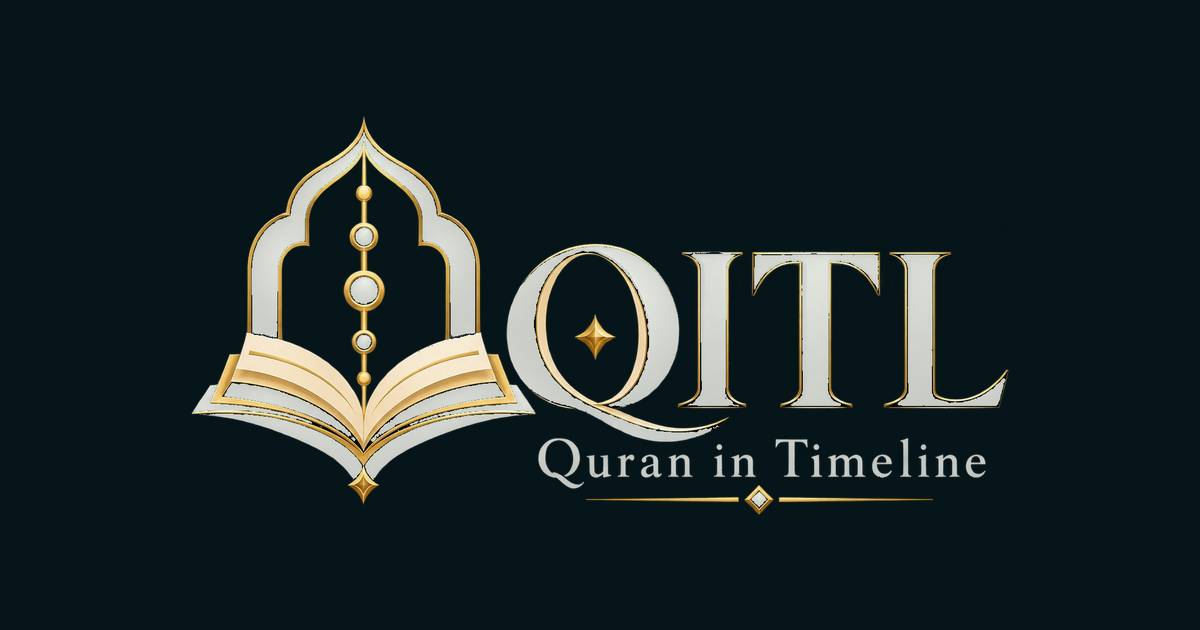
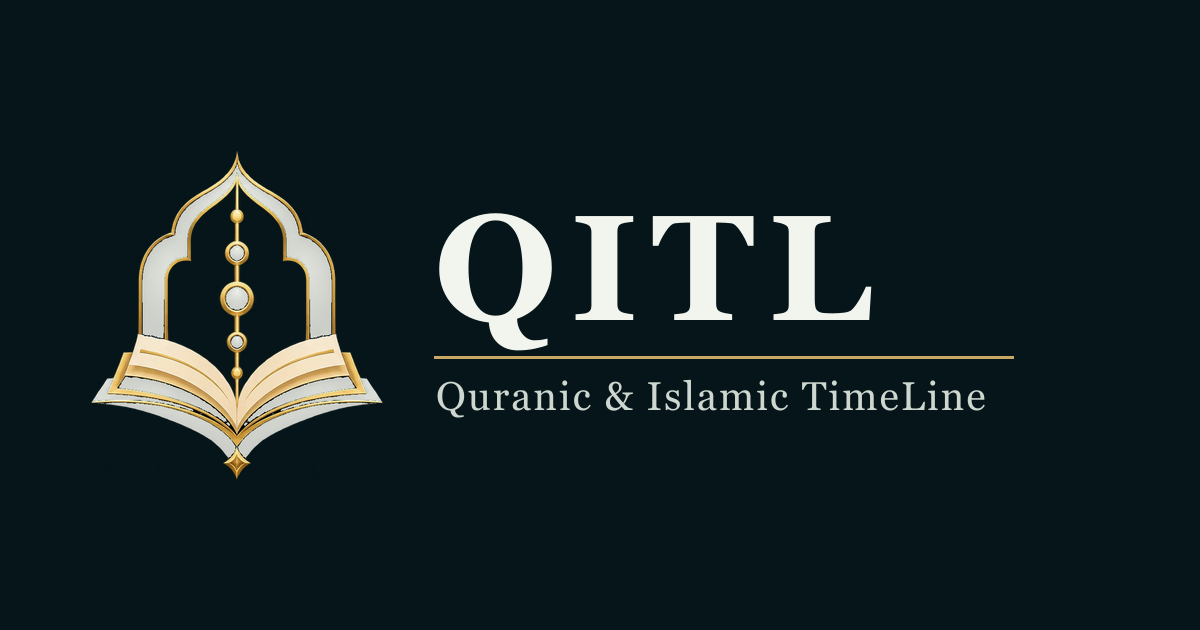
Rename the tagline to 'Quranic & Islamic TimeLine' (single source in src/lib/brand.ts); regenerate the social card from the emblem and live text

Changed region(s): [[0.0617, 0.181, 0.8633, 0.8143]]

diff --git a/src/app/[locale]/page.tsx b/src/app/[locale]/page.tsx
@@ -10,6 +10,7 @@ import { Rosette } from "@/components/ui/icons";
 import { Mark } from "@/components/shell/Logo";
 import { publicEnv } from "@/lib/env";
 import { jsonForScript } from "@/lib/security/html";
+import { BRAND_FULL } from "@/lib/brand";
 
 export default async function HomePage({ params }: { params: Promise<{ locale: string }> }) {
   const { locale } = await params;
@@ -23,7 +24,7 @@ export default async function HomePage({ params }: { params: Promise<{ locale: s
   const jsonLd = {
     "@context": "https://schema.org",
     "@type": "WebSite",
-    name: "QITL — Quran in Timeline",
+    name: BRAND_FULL,
     url: publicEnv.siteUrl,
     inLanguage: ["en", "ar", "ur"],
     potentialAction: { "@type": "SearchAction", target: `${publicEnv.siteUrl}/search?q={query}`, "query-input": "required name=query" },
@@ -125,7 +126,7 @@ export default async function HomePage({ params }: { params: Promise<{ locale: s
       <footer className="zq-foot" id="method">
         <span className="zq-foot-mark">
           <Mark size={36} tone="dark" />
-          <span>QITL — Quran in Timeline</span>
+          <span>{BRAND_FULL}</span>
         </span>
         <span>Respecting evidence · Preserving uncertainty · Learning together</span>
         <nav className="zq-foot-links" aria-label="About">

diff --git a/src/components/shell/SiteHeader.tsx b/src/components/shell/SiteHeader.tsx
@@ -8,6 +8,7 @@ import { LangToggle, ThemeToggle } from "./toggles";
 import { MobileMenu } from "./MobileMenu";
 import { Logo, Mark } from "./Logo";
 import { exploreLinks } from "@/lib/nav";
+import { BRAND_FULL } from "@/lib/brand";
 
 export interface NavLink {
   href: string;
@@ -40,7 +41,7 @@ export function JourneyHeader({ locale }: { locale: string }) {
   const { locale: l, t } = getDict(locale);
   return (
     <header className="zq-nav">
-      <Link className="zq-brand" href="/" aria-label="QITL — Quran in Timeline, home">
+      <Link className="zq-brand" href="/" aria-label={`${BRAND_FULL}, home`}>
         <Logo height={52} tone="dark" priority tagline={t.brandTagline} />
       </Link>
       <nav className="zq-links" aria-label="Main">
@@ -65,7 +66,7 @@ export function ReadingHeader({ locale, query }: { locale: string; query?: strin
   const st = searchStrings(l);
   return (
     <header className="pp-nav">
-      <Link className="pp-brand" href="/" aria-label="QITL — Quran in Timeline, home">
+      <Link className="pp-brand" href="/" aria-label={`${BRAND_FULL}, home`}>
         <Logo height={44} priority tagline={t.brandTagline} />
       </Link>
       <SearchField maxWidth={420} defaultValue={query} id="hdr-q" label={st.fieldLabel} placeholder={st.placeholder} />

diff --git a/tests/e2e/pages.spec.ts b/tests/e2e/pages.spec.ts
@@ -114,9 +114,9 @@ test.describe("narrow screens", () => {
 
 test("branding: the QITL logo with a text alternative, favicon, apple icon and social card", async ({ page, request }) => {
   await page.goto("/");
-  await expect(page.getByRole("link", { name: /QITL — Quran in Timeline, home/ })).toBeVisible();
-  await expect(page.locator('img[alt="QITL — Quran in Timeline"]').first()).toBeVisible();
-  await expect(page).toHaveTitle(/QITL — Quran in Timeline/);
+  await expect(page.getByRole("link", { name: /QITL — Quranic & Islamic TimeLine, home/ })).toBeVisible();
+  await expect(page.locator('img[alt="QITL — Quranic & Islamic TimeLine"]').first()).toBeVisible();
+  await expect(page).toHaveTitle(/QITL — Quranic & Islamic TimeLine/);
   for (const sel of ['link[rel="icon"]', 'link[rel="apple-touch-icon"]', 'meta[property="og:image"]']) expect(await page.locator(sel).count(), sel).toBeGreaterThan(0);
   const og = await page.locator('meta[property="og:image"]').first().getAttribute("content");
   expect((await request.get(new URL(og!).pathname)).status()).toBe(200);

diff --git a/src/lib/i18n/dict.ts b/src/lib/i18n/dict.ts
@@ -8,7 +8,7 @@ export type Locale = "en" | "ar" | "ur";
 
 const en = {
   skip: "Skip to content",
-  brandTagline: "Quran in Timeline",
+  brandTagline: "Quranic & Islamic TimeLine",
   nav: {
     journey: "The Journey",
     explore: "Explore",
@@ -75,7 +75,7 @@ const en = {
 
 const ar: typeof en = {
   skip: "تخطَّ إلى المحتوى",
-  brandTagline: "القرآن عبر الزمن",
+  brandTagline: "القرآن والتاريخ الإسلامي",
   nav: {
     journey: "الرحلة",
     explore: "استكشف",
@@ -143,7 +143,7 @@ const ar: typeof en = {
 /** Draft Urdu (first pass with Lara, corrected by hand): needs review by a qualified translator, like the Arabic. */
 const ur: typeof en = {
   skip: "مواد پر جائیں",
-  brandTagline: "قرآن، زمانی ترتیب میں",
+  brandTagline: "قرآنی و اسلامی تاریخ",
   nav: {
     journey: "سفر",
     explore: "دریافت کریں",

diff --git a/src/app/[locale]/layout.tsx b/src/app/[locale]/layout.tsx
@@ -9,14 +9,15 @@ import { BottomNav } from "@/components/shell/BottomNav";
 import { exploreLinks } from "@/lib/nav";
 import { Analytics } from "@/components/shell/Analytics";
 import "../globals.css";
+import { BRAND_FULL } from "@/lib/brand";
 
 export const metadata: Metadata = {
   metadataBase: new URL(publicEnv.siteUrl),
-  title: { default: "QITL — Quran in Timeline", template: "%s · QITL" },
+  title: { default: BRAND_FULL, template: "%s · QITL" },
   applicationName: "QITL",
   description:
     "Explore the story. Follow the evidence. The Quran, authenticated Hadith, the prophets, chronology and geography — every claim labelled by how certain it is.",
-  openGraph: { type: "website", siteName: "QITL — Quran in Timeline" },
+  openGraph: { type: "website", siteName: BRAND_FULL },
   twitter: { card: "summary_large_image" },
   alternates: { languages: { en: "/", ar: "/ar", ur: "/ur" } },
 };

diff --git a/src/components/shell/Logo.tsx b/src/components/shell/Logo.tsx
@@ -1,4 +1,5 @@
 import Image from "next/image";
+import { BRAND_FULL, BRAND_TAGLINE } from "@/lib/brand";
 
 /**
  * The QITL lockup: the approved emblem (raster, from brand/source) beside a live-text wordmark. Text stays sharp at
@@ -9,7 +10,7 @@ export function Logo({
   height = 44,
   tone = "auto",
   priority = false,
-  tagline = "Quran in Timeline",
+  tagline = BRAND_TAGLINE,
 }: {
   height?: number;
   tone?: "auto" | "dark" | "light";
@@ -17,7 +18,7 @@ export function Logo({
   tagline?: string;
 }) {
   const w = Math.round(height * 0.89);
-  const common = { width: w, height, priority, sizes: `${w}px`, alt: "QITL — Quran in Timeline" } as const;
+  const common = { width: w, height, priority, sizes: `${w}px`, alt: BRAND_FULL } as const;
   return (
     <span className={`qitl-logo qitl-logo-${tone}`} style={{ ["--logo-h" as string]: `${height}px` }}>
       <span className="qitl-logo-mark">

diff --git a/src/lib/brand.ts b/src/lib/brand.ts
@@ -1,0 +1,8 @@
+/**
+ * The product name, in one place. Renaming the product is an edit here, in the Arabic/Urdu taglines of src/lib/i18n/dict.ts
+ * and in scripts/build-brand.mjs (the social card). The Arabic and Urdu taglines are drafts for a qualified translator.
+ */
+export const BRAND_NAME = "QITL";
+export const BRAND_TAGLINE = "Quranic & Islamic TimeLine";
+/** "QITL — Quranic & Islamic TimeLine": page title, social card, accessible name of the logo. */
+export const BRAND_FULL = `${BRAND_NAME} — ${BRAND_TAGLINE}`;

diff --git a/src/app/manifest.ts b/src/app/manifest.ts
@@ -1,8 +1,9 @@
 import type { MetadataRoute } from "next";
+import { BRAND_FULL } from "@/lib/brand";
 
 export default function manifest(): MetadataRoute.Manifest {
   return {
-    name: "QITL — Quran in Timeline",
+    name: BRAND_FULL,
     short_name: "QITL",
     start_url: "/",
     display: "standalone",
